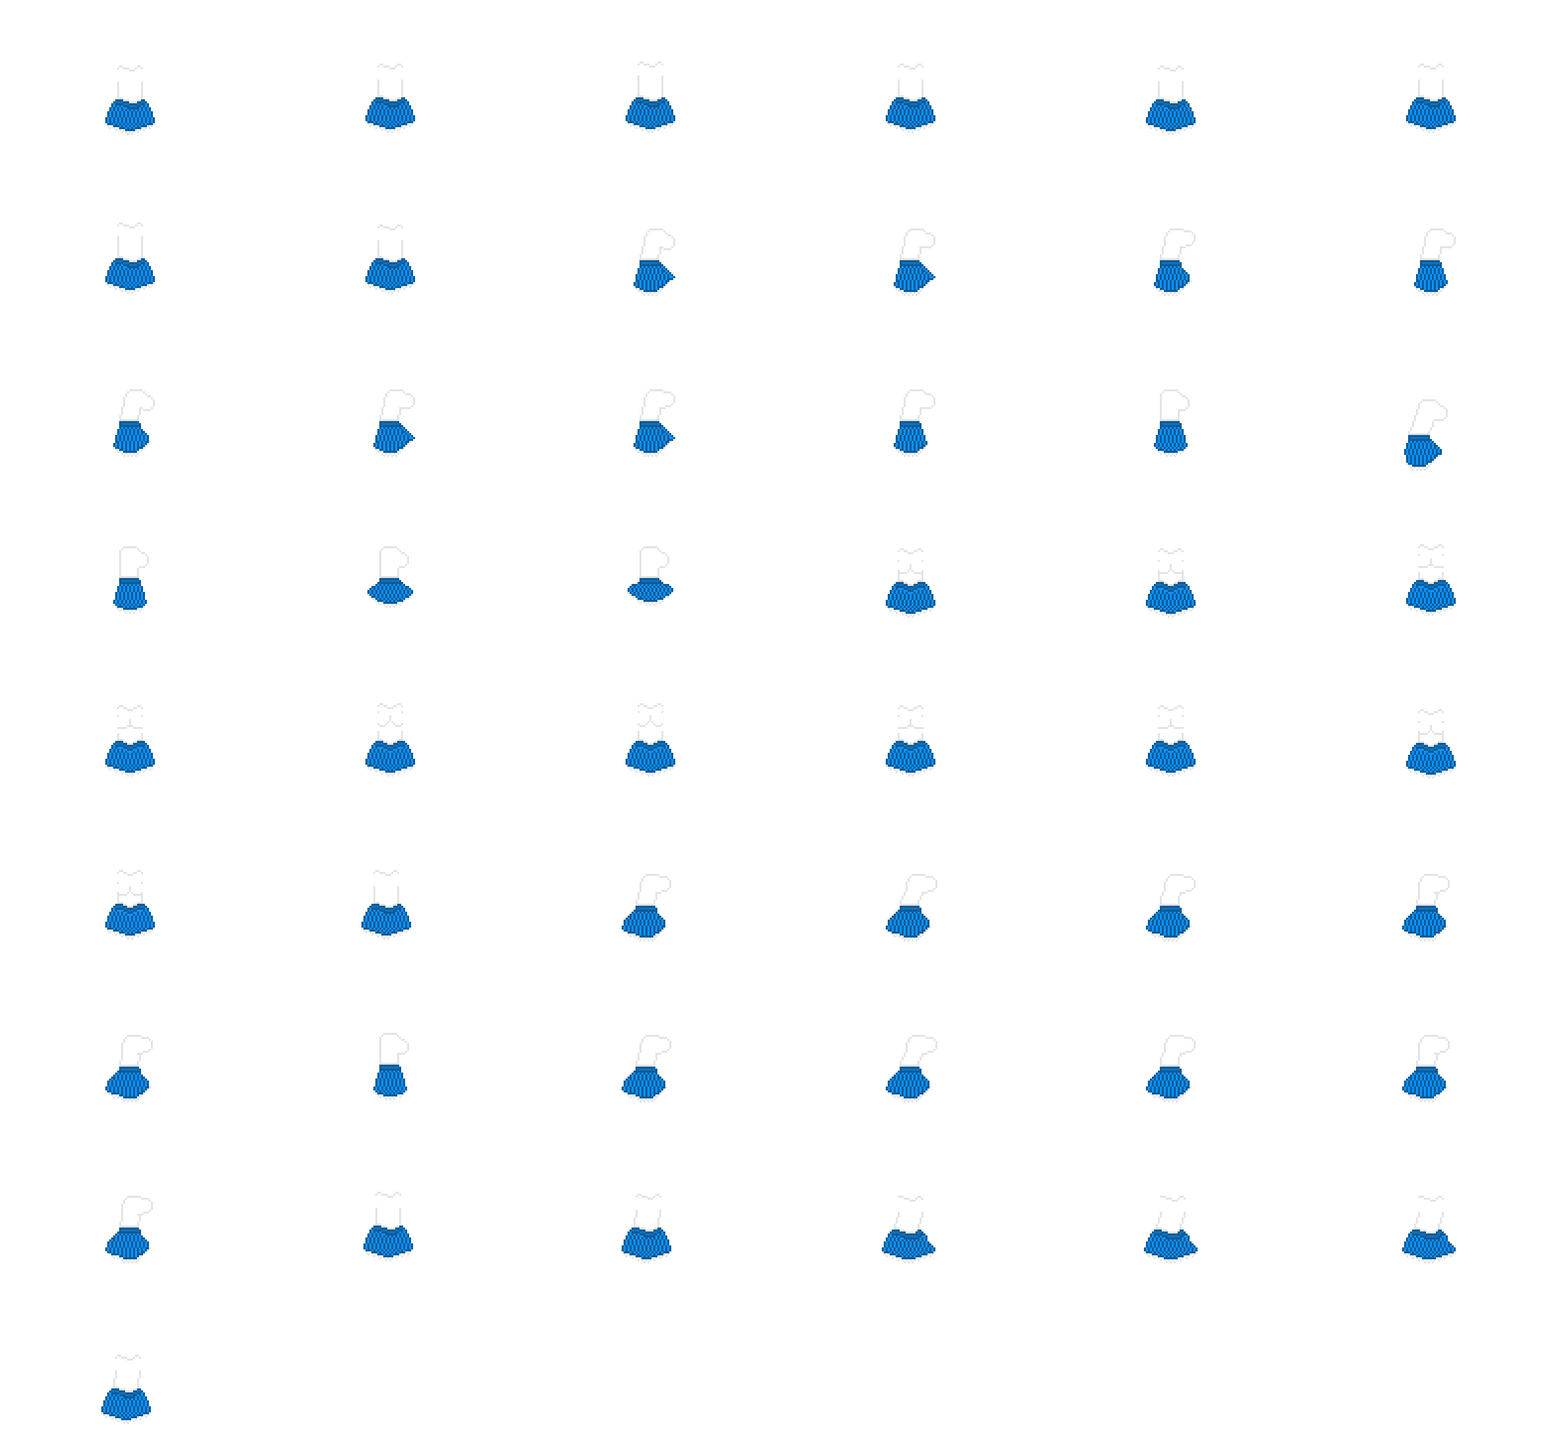
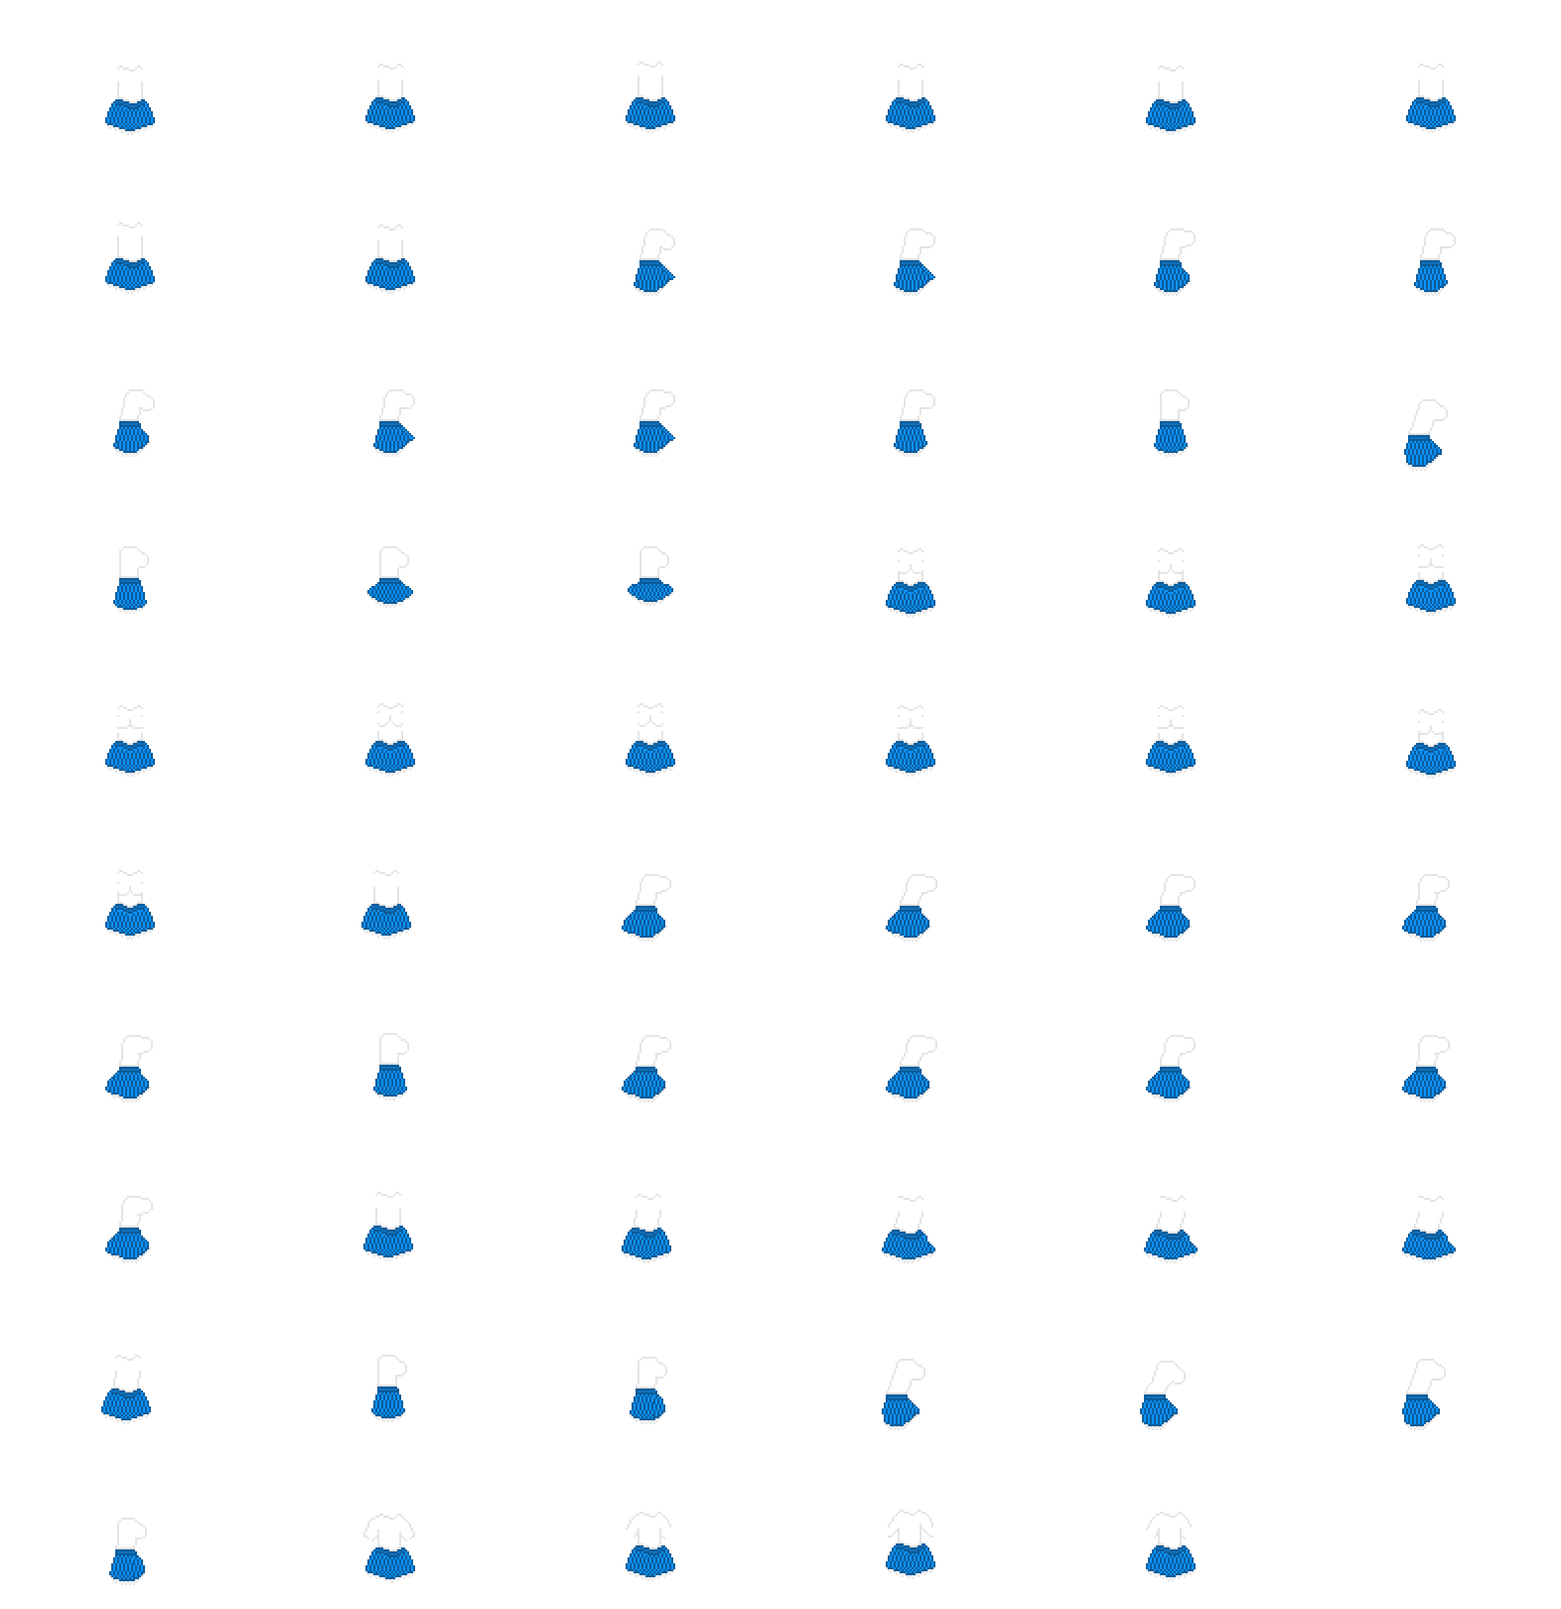
fully implemented player consumable animations.

diff --git a/scripts/playerScripts/humanPlayer/playerAnimations.js b/scripts/playerScripts/humanPlayer/playerAnimations.js
@@ -60,9 +60,12 @@ class playerAnimations extends Phaser.GameObjects.Container{
       this.frontArm7.anims.create({key: 'front-arm-consume-start',frames: this.frontArm7.anims.generateFrameNames('7-evan-front-arm', { start: 49, end: 52 }),frameRate: 12,repeat: 0});
       this.frontArm7.anims.create({key: 'front-arm-consume-end',frames: this.frontArm7.anims.generateFrameNames('7-evan-front-arm', { start: 53, end: 54 }),frameRate: 12,repeat: 0});
 
+      this.frontArm7.anims.create({key: 'front-arm-consume-fail-start',frames: this.frontArm7.anims.generateFrameNames('7-evan-front-arm', { start: 55, end: 56 }),frameRate: 7,repeat: 0});
+      this.frontArm7.anims.create({key: 'front-arm-consume-fail-end',frames: this.frontArm7.anims.generateFrameNames('7-evan-front-arm', { start: 57, end: 58 }),frameRate: 7,repeat: 0});
+
       this.frontArmCloths8.anims.create({key: 'front-arm-cloths-consume-start',frames: this.frontArmCloths8.anims.generateFrameNames('8-evan-front-arm-cloths', {start: 49, end: 52}),frameRate: 12,repeat: 0});
       this.frontArmCloths8.anims.create({key: 'front-arm-cloths-consume-end',frames: this.frontArmCloths8.anims.generateFrameNames('8-evan-front-arm-cloths', {start: 53, end: 54}),frameRate: 12,repeat: 0});
-     
+
       //unarmed animations
       this.backArm3.anims.create({key: 'back-arm-unarmed',frames: this.backArm3.anims.generateFrameNames('3-evan-back-arm', { start: 16, end: 21 }),frameRate: 12,repeat: 0});
       this.weaponLayer9.anims.create({key: 'weapon-start-unarmed',frames: this.weaponLayer9.anims.generateFrameNames('9-weapon-layer', { start: 0, end: 3 }),frameRate: 12,repeat: 0});
@@ -155,6 +158,13 @@ class playerAnimations extends Phaser.GameObjects.Container{
         this.mainBodyCloths6.anims.create({key: 'main-body-consume-start',frames: this.mainBodyCloths6.anims.generateFrameNames('6-evan-main-body-cloths', { start: 49, end: 52}),frameRate: 12,repeat: 0});
         this.mainBodyCloths6.anims.create({key: 'main-body-consume-end',frames: this.mainBodyCloths6.anims.generateFrameNames('6-evan-main-body-cloths', { start: 53, end: 54 }),frameRate: 12,repeat: 0});
 
+        //consume fail 
+        this.mainBodySprite5.anims.create({key: 'main-body-consume-fail-start',frames: this.mainBodySprite5.anims.generateFrameNames('5-evan-main-body', { start: 55, end: 56 }),frameRate: 7,repeat: 0});
+        this.mainBodySprite5.anims.create({key: 'main-body-consume-fail-end',frames: this.mainBodySprite5.anims.generateFrameNames('5-evan-main-body', { start: 57, end: 58 }),frameRate: 7,repeat: 0});
+        this.mainBodyCloths6.anims.create({key: 'main-body-consume-fail-start',frames: this.mainBodyCloths6.anims.generateFrameNames('6-evan-main-body-cloths', { start: 55, end: 56}),frameRate: 7,repeat: 0});
+        this.mainBodyCloths6.anims.create({key: 'main-body-consume-fail-end',frames: this.mainBodyCloths6.anims.generateFrameNames('6-evan-main-body-cloths', { start: 57, end: 58}),frameRate: 7,repeat: 0});
+        
+
         //stuck animations
         this.mainBodySprite5.anims.create({key: 'blueSlimeStuck',frames: this.mainBodySprite5.anims.generateFrameNames('malePlayerStucks', { start: 0, end: 3 }),frameRate: 8,repeat: -1});
         this.mainBodySprite5.anims.create({key: 'cursedHeartInfatuated',frames: this.mainBodySprite5.anims.generateFrameNames('malePlayerStucks', { start: 4, end: 7 }),frameRate: 5,repeat: 0});
@@ -212,6 +222,22 @@ class playerAnimations extends Phaser.GameObjects.Container{
         this.booba8.anims.create({key: 'booba-poke-12fps',frames: this.booba8.anims.generateFrameNames('8-1-evelyn-booba', { start: 24, end: 29  }),frameRate: 12,repeat: 0});
         this.boobaCloths8.anims.create({key: 'booba-sleep-poke-12fps',frames: this.boobaCloths8.anims.generateFrameNames('8-2-evelyn-booba-cloths', { start: 24, end: 29  }),frameRate: 12,repeat: 0});
 
+        //consume item
+        this.mainBodySprite5.anims.create({key: 'main-body-consume-start',frames: this.mainBodySprite5.anims.generateFrameNames('5-evelyn-main-body', { start: 49, end: 52 }),frameRate: 12,repeat: 0});
+        this.mainBodySprite5.anims.create({key: 'main-body-consume-end',frames: this.mainBodySprite5.anims.generateFrameNames('5-evelyn-main-body', { start: 53, end: 54 }),frameRate: 12,repeat: 0});
+        this.mainBodyCloths6.anims.create({key: 'main-body-consume-start',frames: this.mainBodyCloths6.anims.generateFrameNames('6-evelyn-main-body-cloths', { start: 49, end: 52}),frameRate: 12,repeat: 0});
+        this.mainBodyCloths6.anims.create({key: 'main-body-consume-end',frames: this.mainBodyCloths6.anims.generateFrameNames('6-evelyn-main-body-cloths', { start: 53, end: 54 }),frameRate: 12,repeat: 0});
+
+        //consume fail 
+        this.mainBodySprite5.anims.create({key: 'main-body-consume-fail-start',frames: this.mainBodySprite5.anims.generateFrameNames('5-evelyn-main-body', { start: 55, end: 56 }),frameRate: 7,repeat: 0});
+        this.mainBodySprite5.anims.create({key: 'main-body-consume-fail-end',frames: this.mainBodySprite5.anims.generateFrameNames('5-evelyn-main-body', { start: 57, end: 58 }),frameRate: 7,repeat: 0});
+        this.mainBodyCloths6.anims.create({key: 'main-body-consume-fail-start',frames: this.mainBodyCloths6.anims.generateFrameNames('6-evelyn-main-body-cloths', { start: 55, end: 56}),frameRate: 7,repeat: 0});
+        this.mainBodyCloths6.anims.create({key: 'main-body-consume-fail-end',frames: this.mainBodyCloths6.anims.generateFrameNames('6-evelyn-main-body-cloths', { start: 57, end: 58}),frameRate: 7,repeat: 0});
+        this.booba8.anims.create({key: 'booba-consume-fail-start',frames: this.booba8.anims.generateFrameNames('8-1-evelyn-booba', { start: 0, end: 1 }),frameRate: 7,repeat: 0});
+        this.booba8.anims.create({key: 'booba-consume-fail-end',frames: this.booba8.anims.generateFrameNames('8-1-evelyn-booba', { start: 2, end: 3 }),frameRate: 7,repeat: 0});
+        this.boobaCloths8.anims.create({key: 'booba-cloths-consume-fail-start',frames: this.boobaCloths8.anims.generateFrameNames('8-2-evelyn-booba-cloths', { start: 0, end: 1 }),frameRate: 7,repeat: 0});
+        this.boobaCloths8.anims.create({key: 'booba-cloths-consume-fail-end',frames: this.boobaCloths8.anims.generateFrameNames('8-2-evelyn-booba-cloths', { start: 2, end: 3 }),frameRate: 7,repeat: 0});
+        
         //stuck animations
         this.mainBodySprite5.anims.create({key: 'blueSlimeStuck',frames: this.mainBodySprite5.anims.generateFrameNames('femalePlayerStucks', { start: 0, end: 3 }),frameRate: 8,repeat: -1});
         this.mainBodySprite5.anims.create({key: 'cursedHeartInfatuated',frames: this.mainBodySprite5.anims.generateFrameNames('femalePlayerStucks', { start: 4, end: 7 }),frameRate: 5,repeat: 0});

diff --git a/scripts/playerScripts/humanPlayer/playerWeaponFunctions.js b/scripts/playerScripts/humanPlayer/playerWeaponFunctions.js
@@ -472,79 +472,7 @@ class playerWeaponFunctions extends playerItemMaps{
                 });
               
               }
-
-            
-              
             break;
-            case (28):
-
-              if(playerHealthObject.playerCurse !== playerHealthObject.playerCurseMax-1){
-
-                if(this.playedAttackAnimation === false){
-                  this.playedAttackAnimation = true;
-                  this.scene.initSoundEffect('weaponSFX','medium',0.1);
-                  this.playerBonkAnimation9FPS();
-                  this.weaponLayer9.anims.play("weapon-oar").once('animationcomplete', () => {
-                    this.isAttacking = false;
-                    this.playedAttackAnimation = false;
-                    console.log("attack is over so stoping");
-
-                    //if the players curse bar would be below the max then add to the curse build up
-                    if(playerHealthObject.playerCurse + 10 < playerHealthObject.playerCurseMax){
-
-                      healthEmitter.emit(healthEvent.curseBuildUp,10);
-
-                      //then remove one item off the consumable stack.
-                      inventoryKeyEmitter.emit(inventoryKey.reduceItemAmount,4,1);
-
-                    //otherwise 
-                    }else{
-
-                      //take the difference of the current curse amoubtr from the max. then subtract that by 1 to get the amount of curse build up to add to the player without maxing it out
-                      healthEmitter.emit(healthEvent.curseBuildUp,(playerHealthObject.playerCurseMax-playerHealthObject.playerCurse)-1);
-
-                      //then remove one item off the consumable stack.
-                      inventoryKeyEmitter.emit(inventoryKey.reduceItemAmount,4,1);
-
-                    }
-                  
-                  });
-                }
-                
-              }else{
-
-                if(this.playedAttackAnimation === false){
-
-                this.playedAttackAnimation = true;
-                this.scene.initSoundEffect('weaponSFX','high1',0.1);
-                this.playerUnarmedAnimation();
-                console.log("this.playedAttackAnimation: ",this.playedAttackAnimation);
-                this.weaponLayer9.anims.play("weapon-start-unarmed").once('animationcomplete', () => {
-
-                  //sends the weapon layer to the back
-                  this.sendToBack(this.weaponLayer9);
-                  this.moveUpXTimes(this.weaponPositionBack);
-                  console.log("unarmed half way point SHOULD BE STARTING FINISHED HALF OF THE ANIMATION/");
-                  this.playedAttackAnimation = true;
-
-                  this.weaponLayer9.anims.play("weapon-finish-unarmed").once('animationcomplete', () => {
-                    //sends weapon layer back to front -1
-                    this.moveUpXTimes(this.weaponPositionfront);
-                    console.log("unarmed finished way point");
-
-                    this.backLeg1.visible = false;
-                    this.backLegCloths2.visible = false;
-                    this.isAttacking = false;
-                    this.playedAttackAnimation = false;
-                    
-                    console.log("attack is over so stoping");
-                  });
-                });
-              }
-            
-              }
-            
-              break;
             case (29):
             if(playerHealthObject.playerHealth !== playerHealthObject.playerMaxHealth){
                 if(this.playedAttackAnimation === false){
@@ -569,9 +497,33 @@ class playerWeaponFunctions extends playerItemMaps{
                 
             }
             break;
-            default:
-              //default case being empty means we get oftlocked
 
+            default:
+
+              //default case being empty means we get oftlocked
+              if(this.playedAttackAnimation === false){
+
+                this.playedAttackAnimation = true;
+                //this.scene.initSoundEffect('weaponSFX','high1',0.1);
+
+                this.playerConsumeFailStartAnimation();
+
+                this.mainBodySprite5.anims.play("main-body-consume-fail-start").once('animationcomplete', () => {
+                   
+                    this.fixAnimationVariable();
+
+                    this.playerConsumeFailEndAnimation();
+
+                    this.mainBodySprite5.anims.play("main-body-consume-fail-end").once('animationcomplete', () => {
+
+                      this.isAttacking = false;
+                      this.playedAttackAnimation = false;
+
+                      console.log("consume is over so stoping");
+                    });
+                });
+              
+              }
             }
   }
  

diff --git a/scripts/playerScripts/humanPlayer/playerAnimationFunctions.js b/scripts/playerScripts/humanPlayer/playerAnimationFunctions.js
@@ -768,6 +768,116 @@ class playerAnimationFunctions extends playerAnimations{
     }
 
   }
+
+  //idle animation for player
+  playerConsumeFailStartAnimation(){
+
+    //set visibility of layers needed for the animation
+    this.backLeg1.visible = false;
+    this.backArm3.visible = false;
+    this.mainBodySprite5.visible = true;
+    this.frontArm7.visible = true;
+    this.weaponLayer9.visible = false;
+    this.weaponHand10.visible = false;
+
+    if(this.sex === 1){
+      this.booba8.visible = true;
+    }
+    
+    //if player should be clothed then make those layers visible.
+    if(this.clothed === true){
+      this.backLegCloths2.visible = false;
+      this.backArmCloths4.visible = false;
+      this.mainBodyCloths6.visible = true;
+      this.frontArmCloths8.visible = false;
+      if(this.sex === 1){
+        this.boobaCloths8.visible = true;
+      }
+    }else{
+      this.backLegCloths2.visible = false;
+      this.backArmCloths4.visible = false;
+      this.mainBodyCloths6.visible = false;
+      this.frontArmCloths8.visible = false;
+      if(this.sex === 1){
+        this.boobaCloths8.visible = false;
+      }
+    }
+
+    //play repeating animations.
+    //note, important, need to stop other animations not used. otherwise if that layer has a continuous animation called on it, then it will continue while invisble
+    //this is bad because if its used with the same animation, it can cause our layers to become out of sync with each other.
+    this.backLeg1.anims.stop();
+    this.backLegCloths2.anims.stop();
+    this.backArm3.anims.stop()
+    this.backArmCloths4.anims.stop();
+    //this.mainBodySprite5.anims.play('main-body-idle',true);
+    this.mainBodyCloths6.anims.play('main-body-consume-fail-start',true);
+    this.frontArm7.anims.play('front-arm-consume-fail-start',true);
+    this.frontArmCloths8.anims.stop();
+    this.weaponLayer9.anims.stop();
+    this.weaponHand10.anims.stop();
+
+    if(this.sex === 1){
+      this.booba8.anims.play('booba-consume-fail-start',true);
+      this.boobaCloths8.anims.play('booba-cloths-consume-fail-start',true);
+    }
+
+  }
+
+
+  playerConsumeFailEndAnimation(){
+
+    //set visibility of layers needed for the animation
+    this.backLeg1.visible = false;
+    this.backArm3.visible = false;
+    this.mainBodySprite5.visible = true;
+    this.frontArm7.visible = true;
+    this.weaponLayer9.visible = false;
+    this.weaponHand10.visible = false;
+
+    if(this.sex === 1){
+      this.booba8.visible = true;
+    }
+    
+    //if player should be clothed then make those layers visible.
+    if(this.clothed === true){
+      this.backLegCloths2.visible = false;
+      this.backArmCloths4.visible = false;
+      this.mainBodyCloths6.visible = true;
+      this.frontArmCloths8.visible = false;
+      if(this.sex === 1){
+        this.boobaCloths8.visible = true;
+      }
+    }else{
+      this.backLegCloths2.visible = false;
+      this.backArmCloths4.visible = false;
+      this.mainBodyCloths6.visible = false;
+      this.frontArmCloths8.visible = false;
+      if(this.sex === 1){
+        this.boobaCloths8.visible = false;
+      }
+    }
+
+    //play repeating animations.
+    //note, important, need to stop other animations not used. otherwise if that layer has a continuous animation called on it, then it will continue while invisble
+    //this is bad because if its used with the same animation, it can cause our layers to become out of sync with each other.
+    this.backLeg1.anims.stop();
+    this.backLegCloths2.anims.stop();
+    this.backArm3.anims.stop()
+    this.backArmCloths4.anims.stop();
+    //this.mainBodySprite5.anims.play('main-body-idle',true);
+    this.mainBodyCloths6.anims.play('main-body-consume-fail-end',true);
+    this.frontArm7.anims.play('front-arm-consume-fail-end',true);
+    this.frontArmCloths8.anims.stop();
+    this.weaponLayer9.anims.stop();
+    this.weaponHand10.anims.stop();
+
+    if(this.sex === 1){
+      this.booba8.anims.play('booba-consume-fail-end',true);
+      this.boobaCloths8.anims.play('booba-cloths-consume-fail-end',true);
+    }
+
+  }
   
 }
 

diff --git a/scripts/playerScripts/humanPlayer/player.js b/scripts/playerScripts/humanPlayer/player.js
@@ -223,13 +223,16 @@ class player extends playerWeaponFunctions{
     //set up object of functions for item logic 
     this.setupPlayerAnimations(sex);
     
-    //shift some layers down by two pixels to align with the female sprite.
-    this.backArm3.y = 2;
-    this.backArmCloths4.y = 2;
-    this.frontArm7.y = 2;
-    this.frontArmCloths8.y = 2;
-    this.weaponLayer9.y = 2;
-    this.weaponHand10.y = 2;
+    if(sex === 1){
+      //shift some layers down by two pixels to align with the female sprite.
+      this.backArm3.y = 2;
+      this.backArmCloths4.y = 2;
+      this.frontArm7.y = 2;
+      this.frontArmCloths8.y = 2;
+      this.weaponLayer9.y = 2;
+      this.weaponHand10.y = 2;
+    }
+   
 
   }
     
@@ -617,14 +620,15 @@ healthEmitter.emit(healthEvent.returnHealth,playerHealthObject);
     //console.log("activating attack function");
     //temp variable of this object to be used my timeout functions
     let that = this;
-    this.mainHitbox.setSize(10,60,true);
-    this.mainHitbox.setOffset(12, -4 );
+    //this.mainHitbox.setSize(10,60,true);
+    //this.mainHitbox.setOffset(12, -4 );
 
     this.x = this.mainHitbox.x;
-    this.y = this.mainHitbox.y; 
+    this.y = this.mainHitbox.y;
 
     this.x = Math.round(this.x);
     this.y = Math.round(this.y);
+
     //temp object sent to be sent to a emitter
     this.playerDataObject = {
       playerInventoryData: null
@@ -705,61 +709,6 @@ healthEmitter.emit(healthEvent.returnHealth,playerHealthObject);
     }
   }
 
-  //handles hitbox position when attacking right, note this function is only activated if shift is down. that is handle
-  //note make a function that given a size number can change the shape of the hitbox?
-  HitBox(delay,distance){
-
-    //stop the players velocity
-    this.mainHitbox.setVelocityX(0);
-    
-    //start by having the player press shift state should be false
-    if(this.hitboxState === false){
-      
-      //player is swinging so  set the state to true
-      this.hitboxState = true;
-
-      // now we start a timer that will activate the hitbox
-      let tempPlayer = this;
-      setTimeout(function(){
-
-        //after half the delay given we check the hitbox state if its still true
-        //console.log("Phaser.Input.Keyboard.JustDown(this.scene.shift) ",Phaser.Input.Keyboard.JustDown(this.scene.shift))
-        if(tempPlayer.hitboxState === true){
-          
-          //put hitbox infront of the player in the way there facing
-          if(tempPlayer.lastKey === 'd'){
-            tempPlayer.scene.attackHitBox.x = tempPlayer.x+distance;
-
-            //has the player move forward slightly
-            if(!tempPlayer.scene.playerGrabbed){
-              tempPlayer.mainHitbox.setVelocityX(20);
-            }
-          }else{
-            tempPlayer.scene.attackHitBox.x = tempPlayer.x-distance;
-
-            if(!tempPlayer.scene.playerGrabbed){
-              tempPlayer.mainHitbox.setVelocityX(-20);
-            }
-          }
-          tempPlayer.scene.attackHitBox.y = tempPlayer.y
-
-          //set a timeout function so the hitbox lingeres for a tenth of a second
-          setTimeout(function(){
-            
-            //after that time is up put the hitbox back to its idle location and reset the hitboxstate variable. 
-            //tempPlayer.scene.attackHitBox.x = tempPlayer.x;
-            //tempPlayer.scene.attackHitBox.y = tempPlayer.y+10000;
-            tempPlayer.hitboxState = false;
-
-          },100);
-
-        //otherwise reset state of attack hitbox
-        }
-
-      },delay/2);
-    }
-  }
-
   shiftPlayerForward(){
 
     if(this.attackHitboxState === true){
@@ -783,6 +732,9 @@ healthEmitter.emit(healthEvent.returnHealth,playerHealthObject);
 
       this.x = this.mainHitbox.x;
       this.y = this.mainHitbox.y;
+
+      this.x = Math.round(this.x);
+      this.y = Math.round(this.y);
   }
 
 
